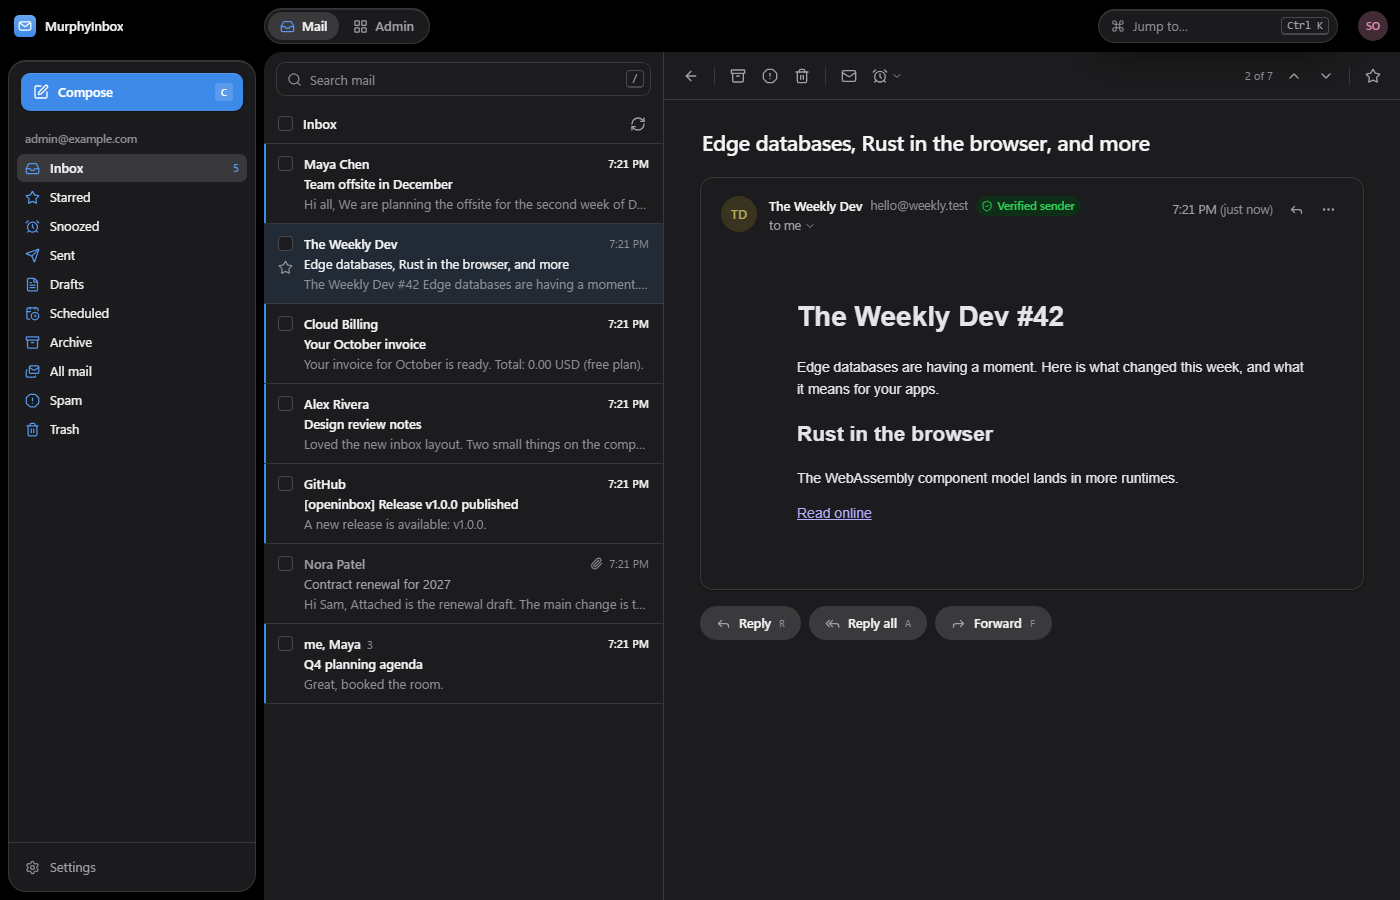
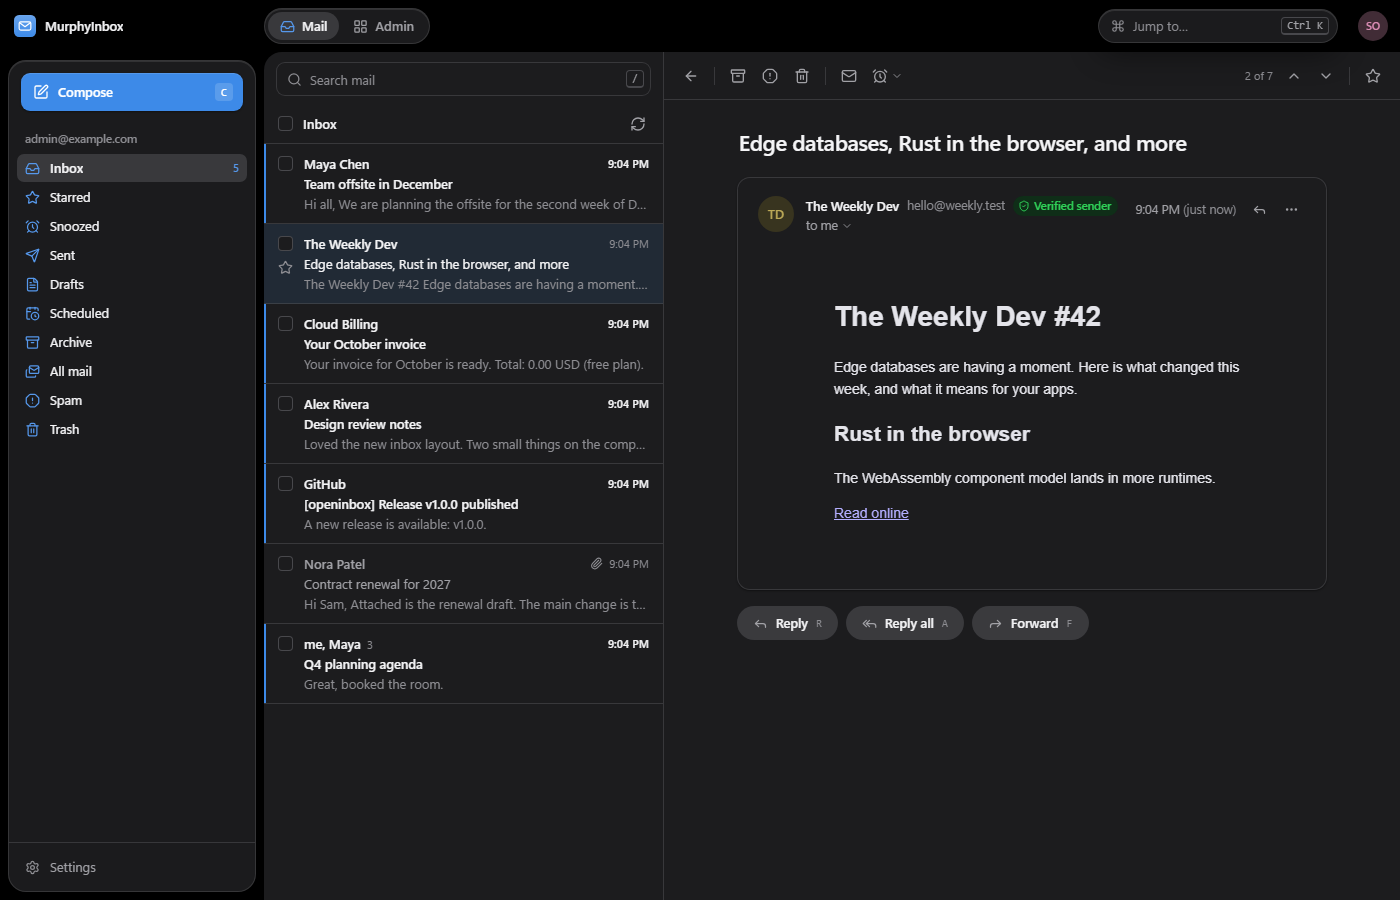
Narrow page content to 90% width; default R2 bucket murphyinbox-mail

diff --git a/src/web/pages/mail/ThreadView.tsx b/src/web/pages/mail/ThreadView.tsx
@@ -306,7 +306,7 @@ export function ThreadView({
       </div>
 
       <div className="scroll-thin min-h-0 flex-1 overflow-y-auto">
-        <div className="flex w-full flex-col gap-3 px-3.5 pt-[18px] pb-10 md:px-9 md:pt-7">
+        <div className="mx-auto flex w-full flex-col gap-3 px-3.5 lg:w-[90%] pt-[18px] pb-10 md:px-9 md:pt-7">
           <div className="px-1 pb-2 md:px-0.5">
             <h1 className="text-xl leading-[1.3] font-semibold tracking-[-0.02em] break-words text-pretty md:text-[22px]">{t.subject || '(no subject)'}</h1>
             {(t.labels.length > 0 || t.folder === 'spam' || t.snoozedUntil || (mailbox && mailboxes.length > 1)) && (

diff --git a/src/worker/routes/admin.ts b/src/worker/routes/admin.ts
@@ -440,7 +440,7 @@ admin.post('/storage/bucket', async (c) => {
   const settings = await settingsOf(c);
   const cf = await requireCf(c.env, settings);
   const { bucket } = (await c.req.json()) as { bucket?: string };
-  const name = (bucket || 'openinbox-mail').toLowerCase();
+  const name = (bucket || 'murphyinbox-mail').toLowerCase();
   if (!/^[a-z0-9][a-z0-9-]{1,61}[a-z0-9]$/.test(name)) throw badRequest('Bucket names use 3-63 lowercase letters, digits and dashes.');
   try {
     await cf.request('POST', `/accounts/${settings.cfAccountId}/r2/buckets`, { name });

diff --git a/src/web/pages/settings/SettingsPage.tsx b/src/web/pages/settings/SettingsPage.tsx
@@ -50,7 +50,7 @@ export default function SettingsPage() {
         </nav>
       </aside>
       <div className="scroll-thin min-h-0 flex-1 overflow-y-auto">
-        <div className="w-full px-4 pt-6 pb-12 sm:px-6 lg:px-8 lg:pt-8">
+        <div className="mx-auto w-full px-4 pt-6 pb-12 sm:px-6 lg:w-[90%] lg:px-8 lg:pt-8">
           <Routes>
             {ACCOUNT.map((a) => (
               <Route key={a.to} path={a.to} element={a.element} />

diff --git a/src/web/pages/admin/IntegrationsPage.tsx b/src/web/pages/admin/IntegrationsPage.tsx
@@ -638,7 +638,7 @@ interface StorageInfo {
 
 function StorageSection() {
   const storage = useQuery({ queryKey: ['admin', 'storage'], queryFn: () => get<StorageInfo>('/admin/storage') });
-  const [bucket, setBucket] = useState('openinbox-mail');
+  const [bucket, setBucket] = useState('murphyinbox-mail');
   const [keyId, setKeyId] = useState('');
   const [secret, setSecret] = useState('');
   const { run, busy } = useAction();

diff --git a/src/web/pages/admin/AdminRoutes.tsx b/src/web/pages/admin/AdminRoutes.tsx
@@ -64,7 +64,7 @@ function AdminLayout() {
         </div>
       </aside>
       <div className="scroll-thin min-h-0 flex-1 overflow-y-auto">
-        <div className="w-full px-4 pt-6 pb-12 sm:px-6 lg:px-8 lg:pt-8">
+        <div className="mx-auto w-full px-4 pt-6 pb-12 sm:px-6 lg:w-[90%] lg:px-8 lg:pt-8">
           <Outlet />
         </div>
       </div>
